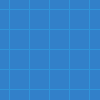
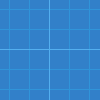
upd: update bg texture

Changed region(s): [[0.0, 0.0, 1.0, 1.0]]

diff --git a/css/style.css b/css/style.css
@@ -282,7 +282,7 @@ pre.bg-darkblue > code.hljs {
     align-items: center;
     background-color: #307cc2;
     background-image: linear-gradient(0deg, rgba(0, 36, 70, 0.25) 0%, rgba(0, 36, 70, 0.55) 100%), url("../images/bg-grid-blue.png");
-    background-position: top center;
+    background-position: center center;
     background-repeat: repeat repeat;
     box-shadow: inset 0px 1px 0px 0px rgba(0, 75, 139, 0.8), inset 0px 2px 0px 0px rgba(172, 233, 255, 0.77);
     width: 100%;
